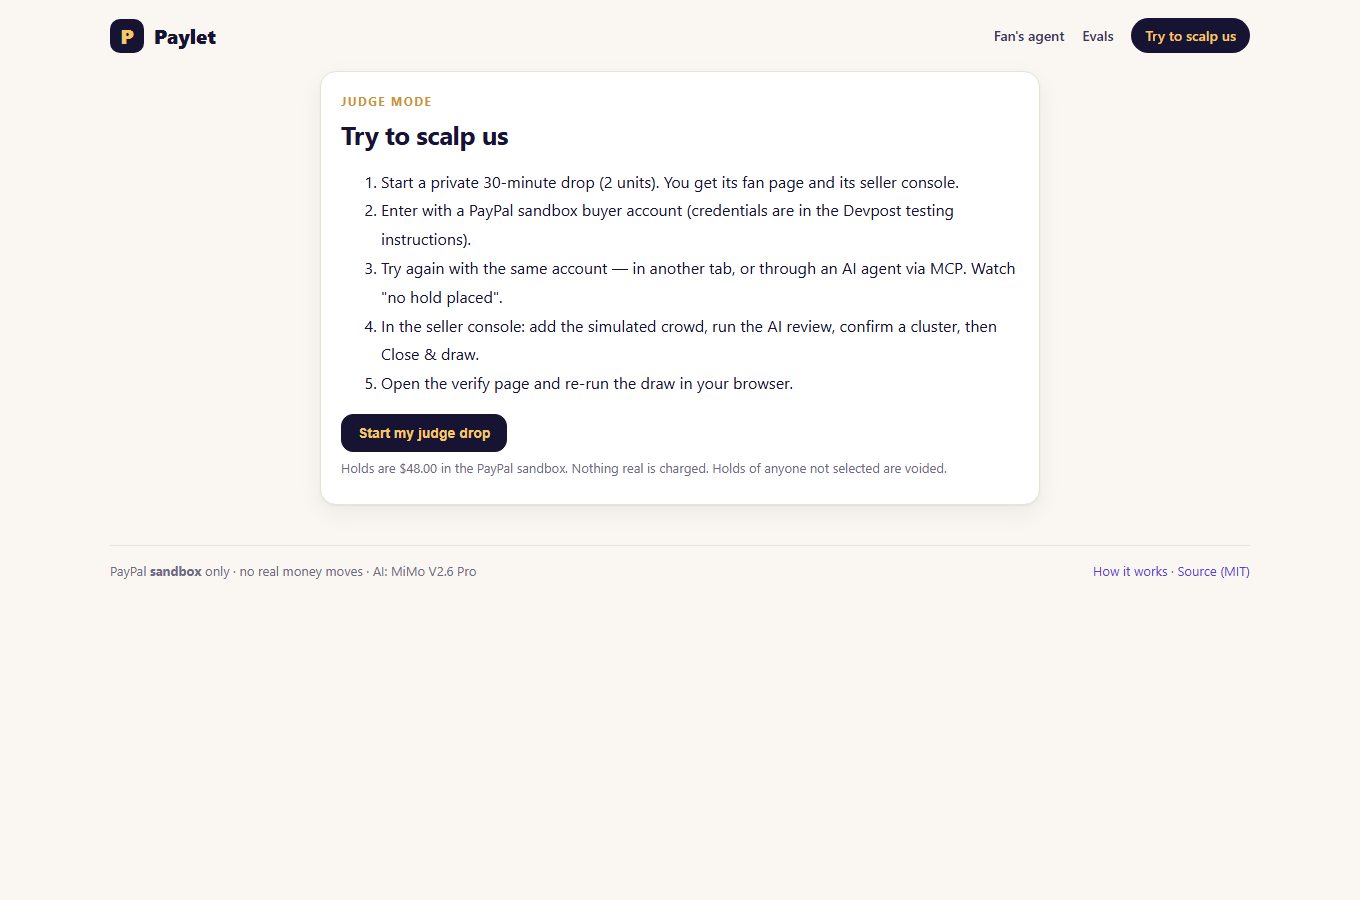
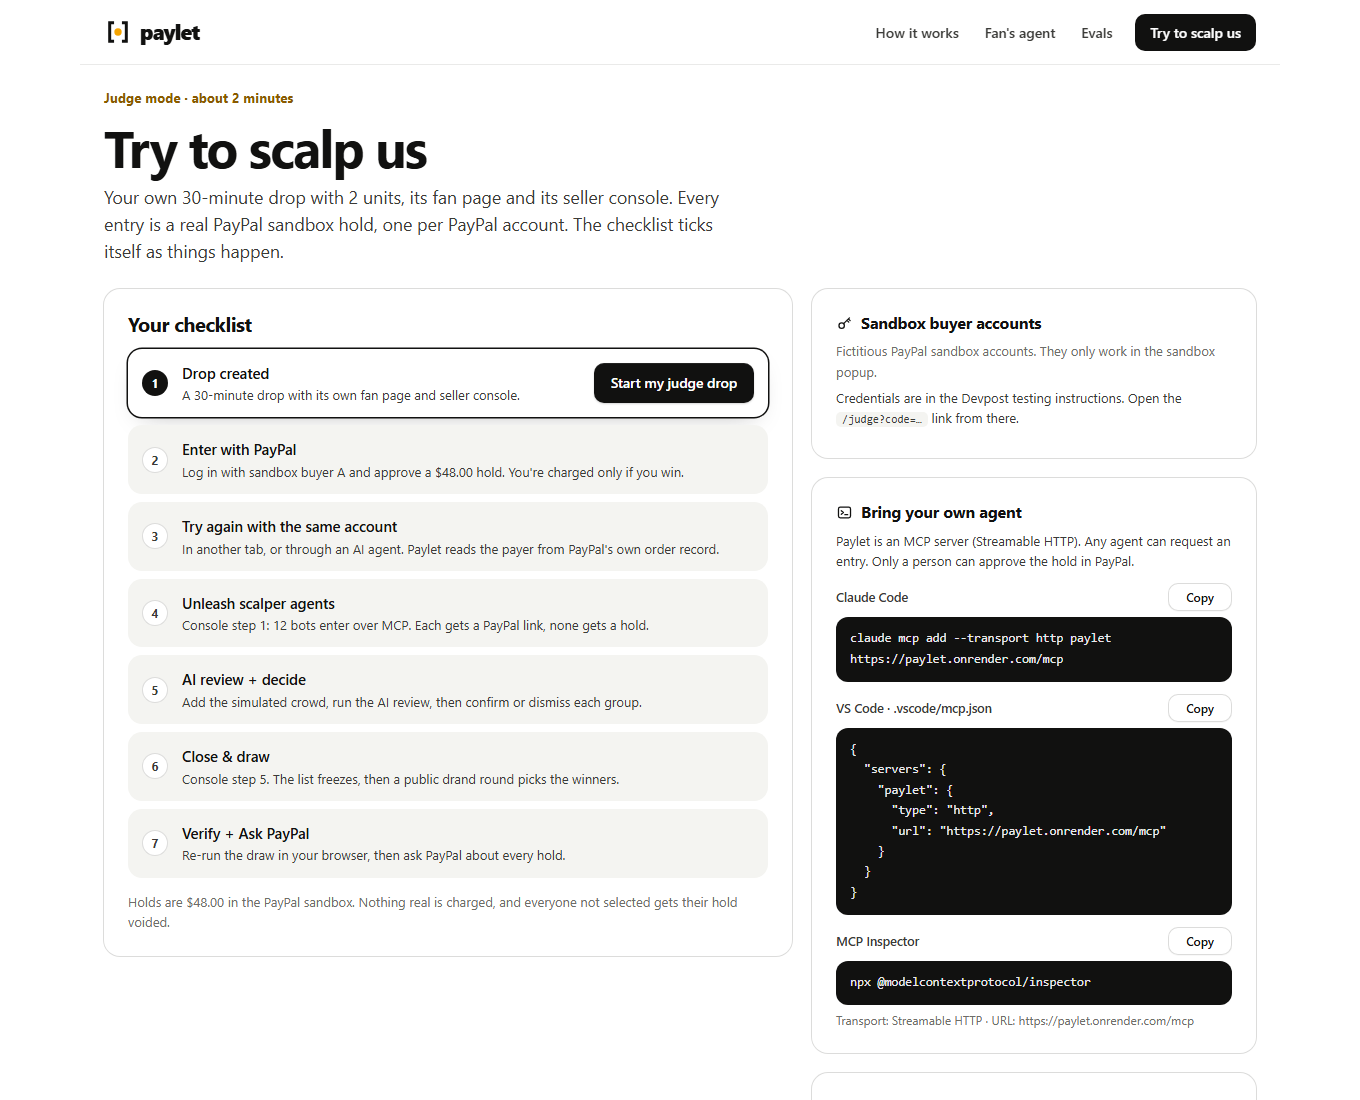
release prep: README hero and demo video link, judge screenshot from the redesign, video pipeline sources (narration, voice take selection, one-take splitter, music prompt)

diff --git a/video/README.md b/video/README.md
@@ -1,0 +1,18 @@
+# The demo video, reproducibly
+
+Everything that makes `paylet-demo.mp4` lives in this repo, except the keys (read from env files outside the repo).
+
+| Step | What | How |
+|---|---|---|
+| 1. Footage | 10 scenes recorded against the live demo with the real PayPal sandbox (a sandbox buyer approves in PayPal; real capture of $44.50). Native 1080p, drawn cursor, no address bar, sandbox email blurred. Each scene writes `<scene>.marks.json`. | `HEADED=1 node --env-file=../.secrets/buyer.env --env-file=../.secrets/seller_admin.env --import tsx scripts/record-video.ts` |
+| 2. Voice | The narration in [`narration.json`](narration.json), performed by the author's own ElevenLabs voice clone. Either generated per line with take selection ([`vo-pro.mjs`](vo-pro.mjs): `eleven_v3` with audio tags, three takes per line scored with Scribe speech-to-text), or exported in one take from the ElevenLabs app and cut into lines on Scribe word timestamps ([`split-take.mjs`](split-take.mjs)). The final video uses the one-take export. | `node --env-file=<elevenlabs.env> vo-pro.mjs` or `node split-take.mjs` |
+| 3. Music | ElevenLabs Music, instrumental, 3:00. Prompt below. | `POST /v1/music` |
+| 4. Edit | Cuts the waits (PayPal login, model thinking) to a target length, places each voice line on its action, chapter labels in the brand's hold tag, logo intro and outro; voice levelled linearly (two-pass loudnorm), music ducked under the voice with a slow sidechain, true-peak limiter. | `VO_DIR=vo-user node scripts/edit-video.mjs` |
+
+Music prompt:
+
+> Instrumental background music for a polished fintech product demo video. Minimal modern electronic with warm felt
+> piano, soft analog synth pads, gentle pulsing bass and crisp light percussion. Confident, optimistic, focused,
+> understated. Steady 104 BPM, no drops, no vocals, no big build-ups. Designed to sit quietly under a voice-over.
+
+Product photos in the demo drops: Unsplash License (credits in the main README).

diff --git a/README.md b/README.md
@@ -19,8 +19,10 @@ shipping); everyone else's hold is **voided**. If a winner's payment fails, the 
 already exists, gets the unit.
 
 > **Live demo:** https://paylet.onrender.com · **Judges:** [`/judge`](https://paylet.onrender.com/judge), a guided 2-minute run ("try to scalp us")
-> **Finished real run, no login needed:** https://paylet.onrender.com/d/ember-glaze-mug-2710 · **Video:** see the Devpost submission
+> **Finished real run, no login needed:** https://paylet.onrender.com/d/ember-glaze-mug-2710 · **Demo video (2:40):** [paylet-demo.mp4](https://github.com/KaraAliOsman/paylet/releases/download/v1.0.0/paylet-demo.mp4) ([how it was made](video/README.md))
 > PayPal **sandbox only**: no real money moves. The demo runs on a free instance: the first request after it sleeps takes about a minute.
+
+![Paylet home: one unit per PayPal account, the proof drop's real PayPal ledger replayed](docs/img/hero.png)
 
 ![Paylet seller console: AI-adjudicated reseller network, confirmed by the seller, then settled](docs/img/settled.png)
 
